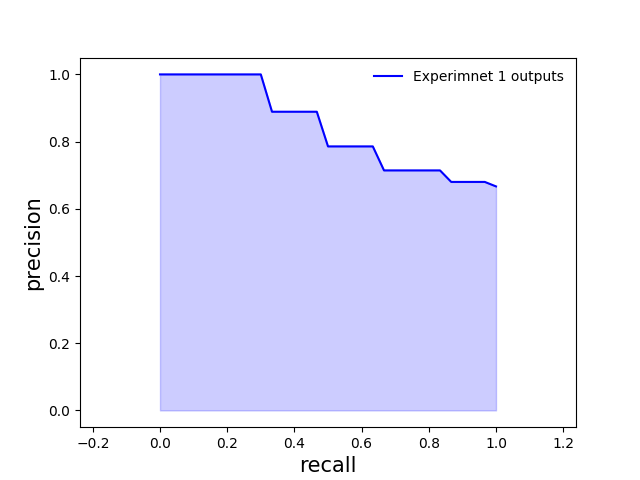
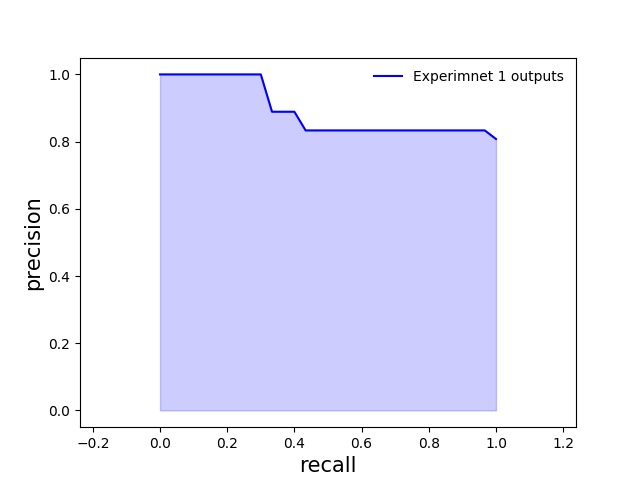
add pr curves

Changed region(s): [[0.4375, 0.2188, 0.7812, 0.4062]]

diff --git a/paper_fig/plotter.py b/paper_fig/plotter.py
@@ -3,18 +3,27 @@ import matplotlib.pyplot as plt
 import matplotlib.patches as mpatches
 import csv, random
 from sklearn import metrics
+from sklearn.metrics import roc_auc_score
 
 EXP_NUM = 1
 VERSION = 1
 
 # read the csv file
-file  = open('./exp0{}_attr.csv'.format(str(EXP_NUM)), "rt", encoding="utf-8")
+file  = open('./exp0{}_data.csv'.format(str(EXP_NUM)), "rt", encoding="utf-8")
 data = csv.reader(file, delimiter=",")
 matrix = [row for row in data] # read the data from the files
 # cut til only precision and recall score of each row
 matrix = np.delete(matrix, (0), axis=0)
-matrix = np.delete(matrix, np.s_[0:3], axis=1)
-print(matrix)
+matrix = np.delete(matrix, np.s_[0:5], axis=1)
+# for i in range(4):
+matrix_curr = matrix[:, [0,3]]
+print(matrix_curr, "\n")
+# ind = np.argsort(matrix_curr, axis=0)
+# print(ind)
+
+arr = [1, 3, 5, 2, 4, 6]
+print(np.argsort(arr))
+
 
 file.close()
 
